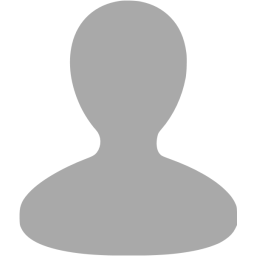
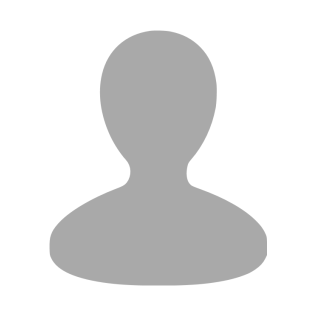
commit pre pull kenjonespizza

diff --git a/site/src/components/Testimonial/SideBySideTestimonial.svelte b/site/src/components/Testimonial/SideBySideTestimonial.svelte
@@ -1,6 +1,8 @@
 <script>
   import Carousel from '../Carousel.svelte'
   import BlockContent from '../BlockContent.svelte'
+  import TagRenderer from '../TagRenderer.svelte'
+  import { urlFor } from '../../utils/helpers'
 
   export let data
 
@@ -16,7 +18,7 @@
     primaryTextClass = 'text-indigo-600'
   } else if (data.backgroundColor === 'primary') {
     bgColorClass = 'bg-indigo-600'
-    textClass = 'text-textOnPrimary'
+    textClass = 'text-textOnPrimary border-textOnPrimary'
     primaryTextClass = 'text-textOnPrimary'
   } else {
     bgColorClass = 'bg-white'
@@ -31,36 +33,38 @@
   
 </script>
 
-<section class={`${wrapperClass}`}>
+<section class={`${wrapperClass || ''}`}>
   <div class={bgColorClass}>
     <div class="max-w-screen-xl mx-auto slides-wrap">
-      <Carousel backgroundColor={data.backgroundColor} {carouselOptions} >
+      <svelte:component this={data.testimonials.length > 2 ? Carousel : TagRenderer} tag="div" classes="md:grid md:grid-cols-2 md:px-6 lg:px-8" backgroundColor={data.backgroundColor} {carouselOptions}>
 
-        {#each data.testimonialArray as testimonial, i}
+        {#each data.testimonials as testimonial, i}
           <blockquote class="flex flex-col justify-center h-full py-12 px-6 md:py-16">
               <div class={`${textClass} relative text-lg leading-7 font-medium md:flex-grow`}>
                 <svg class={`${primaryTextClass} absolute top-0 left-0 transform -translate-x-1 -translate-y-2 h-8 w-8 text-indigo-600`} fill="currentColor" viewBox="0 0 32 32">
                   <path d="M9.352 4C4.456 7.456 1 13.12 1 19.36c0 5.088 3.072 8.064 6.624 8.064 3.36 0 5.856-2.688 5.856-5.856 0-3.168-2.208-5.472-5.088-5.472-.576 0-1.344.096-1.536.192.48-3.264 3.552-7.104 6.624-9.024L9.352 4zm16.512 0c-4.8 3.456-8.256 9.12-8.256 15.36 0 5.088 3.072 8.064 6.624 8.064 3.264 0 5.856-2.688 5.856-5.856 0-3.168-2.304-5.472-5.184-5.472-.576 0-1.248.096-1.44.192.48-3.264 3.456-7.104 6.528-9.024L25.864 4z" />
                 </svg>
 
-                <BlockContent content={testimonial.quote} classes={`relative pl-10 prose`} />
+                <BlockContent content={testimonial.quote} classes={`${textClass} relative pl-10 prose`} />
 
               </div>
               <footer class="mt-8">
                 <div class="flex">
-                  <div class="flex-shrink-0 inline-flex rounded-full border-2 border-white">
-                    <img class="h-12 w-12 rounded-full" src="https://images.unsplash.com/photo-1494790108377-be9c29b29330?ixlib=rb-1.2.1&ixid=eyJhcHBfaWQiOjEyMDd9&auto=format&fit=facearea&facepad=2&w=256&h=256&q=80" alt="">
-                  </div>
-                  <div class="ml-4">
-                    <div class={`${textClass} text-base leading-6 font-medium`}>Judith Black</div>
-                    <div class={`${primaryTextClass} text-base leading-6 font-medium`}>CEO, Tuple</div>
+
+                    <img class="rounded-full border-2 border-textOnPrimary h-10 w-10 object-cover object-center" src={testimonial.authorImage ? urlFor(testimonial.authorImage).quality(80).width(1400) : '/images/userImageNotFound.png'} alt={testimonial.authorName}>
+
+                  <div class="ml-4 flex flex-col justify-center">
+                    <div class={`${textClass} text-base leading-6 font-medium`}>{testimonial.authorName}</div>
+                    {#if testimonial.authorRol || testimonial.authorCompany}
+                    <div class={`${primaryTextClass} text-base leading-6 font-medium`}>{testimonial.authorRol}{testimonial.authorRol && testimonial.authorCompany ? ', ' : ' '}{testimonial.authorCompany}</div>
+                    {/if}
                   </div>
                 </div>
               </footer>
           </blockquote>
         {/each}
         
-      </Carousel>
+        </svelte:component>
     </div>
   </div>
 </section>

diff --git a/site/src/components/Testimonial/WithLargeAvatarTestimonial.svelte b/site/src/components/Testimonial/WithLargeAvatarTestimonial.svelte
@@ -1,0 +1,83 @@
+<script>
+  import Carousel from '../Carousel.svelte'
+  import BlockContent from '../BlockContent.svelte'
+  import TagRenderer from '../TagRenderer.svelte'
+  import { urlFor } from '../../utils/helpers'
+
+  export let data
+
+  let wrapperClass
+  let bgColorClass = 'bg-white'
+  let textClass = 'text-gray-900'
+  let primaryTextClass = 'text-indigo-600'
+
+  if (data.backgroundColor === 'inverted') {
+    wrapperClass = 'inverted'
+  } else if (data.backgroundColor === 'primary') {
+    bgColorClass = 'bg-indigo-600'
+    textClass = 'text-textOnPrimary'
+    primaryTextClass = 'text-textOnPrimary'
+  }
+  
+</script>
+
+<section class={`${wrapperClass || ''} ${bgColorClass} overflow-hidden`}>
+  <div class="relative max-w-screen-xl mx-auto pt-20 pb-12 px-4 sm:px-6 lg:px-8 lg:py-20">
+    <svg class="absolute top-full left-0 transform translate-x-80 -translate-y-24 lg:hidden" width="784" height="404" fill="none" viewBox="0 0 784 404">
+      <defs>
+        <pattern id="e56e3f81-d9c1-4b83-a3ba-0d0ac8c32f32" x="0" y="0" width="20" height="20" patternUnits="userSpaceOnUse">
+          <rect x="0" y="0" width="4" height="4" class="text-gray-200" fill="currentColor" />
+        </pattern>
+      </defs>
+      <rect width="784" height="404" fill="url(#e56e3f81-d9c1-4b83-a3ba-0d0ac8c32f32)" />
+    </svg>
+
+    <svg class="hidden lg:block absolute right-full top-1/2 transform translate-x-1/2 -translate-y-1/2" width="404" height="784" fill="none" viewBox="0 0 404 784">
+      <defs>
+        <pattern id="56409614-3d62-4985-9a10-7ca758a8f4f0" x="0" y="0" width="20" height="20" patternUnits="userSpaceOnUse">
+          <rect x="0" y="0" width="4" height="4" class="text-gray-200" fill="currentColor" />
+        </pattern>
+      </defs>
+      <rect width="404" height="784" fill="url(#56409614-3d62-4985-9a10-7ca758a8f4f0)" />
+    </svg>
+
+    
+      
+        <svelte:component this={data.testimonials.length > 1 ? Carousel : TagRenderer} tag="div" backgroundColor={data.backgroundColor}>
+
+          {#each data.testimonials as testimonial, i}
+
+          <div class="relative lg:flex lg:items-center">
+            <div class="hidden lg:block lg:flex-shrink-0">
+              <img class="bg-white h-64 w-64 rounded-full xl:h-80 xl:w-80 object-cover object-center" src={testimonial.authorImage ? urlFor(testimonial.authorImage).quality(80).width(1400) : '/images/userImageNotFound.png'} alt={testimonial.authorName}>
+            </div>
+      
+            <div class="relative lg:ml-10">
+  
+            <blockquote class="flex flex-col justify-center h-full px-6 md:px-0">
+
+              <BlockContent content={testimonial.quote} classes={`${textClass} text-2xl leading-9 font-medium text-gray-900`} />
+
+              <footer class="mt-8">
+                <div class="flex">
+                  <div class="flex-shrink-0 lg:hidden">
+                    <img class="h-12 w-12 rounded-full object-cover object-center" src={testimonial.authorImage ? urlFor(testimonial.authorImage).quality(80).width(1400) : '/images/userImageNotFound.png'} alt={testimonial.authorName}>
+                  </div>
+                  <div class="ml-4 lg:ml-0">
+                    <div class={`${textClass} text-base leading-6 font-medium`}>{testimonial.authorName}</div>
+                    {#if testimonial.authorRol || testimonial.authorCompany}
+                      <div class={`${primaryTextClass} text-base leading-6 font-medium opacity-75`}>{testimonial.authorRol}{testimonial.authorRol && testimonial.authorCompany ? ', ' : ' '}{testimonial.authorCompany}</div>
+                    {/if}
+                  </div>
+                </div>
+              </footer>
+            </blockquote>
+
+          </div>
+        </div>
+
+          {/each}
+          
+      </svelte:component>
+  </div>
+</section>

diff --git a/site/src/components/Testimonial/SimpleCenteredTestimonial.svelte b/site/src/components/Testimonial/SimpleCenteredTestimonial.svelte
@@ -1,6 +1,7 @@
 <script>
   import Carousel from '../Carousel.svelte'
   import BlockContent from '../BlockContent.svelte'
+  import TagRenderer from '../TagRenderer.svelte'
   import { urlFor } from '../../utils/helpers'
 
   export let data
@@ -27,24 +28,22 @@
   
 </script>
 
-<section class={`${wrapperClass} py-12 ${bgColorClass} overflow-hidden md:py-20 lg:py-24`}>
+<section class={`${wrapperClass || ''} py-12 ${bgColorClass} overflow-hidden md:py-20 lg:py-24`}>
   <div class={`relative max-w-screen-xl mx-auto px-4 sm:px-6 lg:px-8`}>
     <div class="relative">
       
-      <Carousel backgroundColor={data.backgroundColor}>
+      <svelte:component this={data.testimonials.length > 1 ? Carousel : TagRenderer} tag="div" backgroundColor={data.backgroundColor}>
 
-        {#each data.testimonialArray as testimonial, i}
+        {#each data.testimonials as testimonial, i}
  
           <blockquote class="flex flex-col justify-center h-full px-6 md:px-0">
 
-            <BlockContent content={testimonial.quote} classes={`max-w-3xl mx-auto text-center text-2xl leading-9 font-medium text-gray-900`} />
+            <BlockContent content={testimonial.quote} classes={`${textClass} max-w-3xl mx-auto text-center text-2xl leading-9 font-medium text-gray-900`} />
 
             <footer class="mt-8">
               <div class="md:flex md:items-center md:justify-center">
                 <div class="md:flex-shrink-0">
-                  {#if testimonial.authorImage && testimonial.authorImage.image}
-                    <img class="mx-auto h-10 w-10 rounded-full object-cover object-center" src={urlFor(testimonial.authorImage.image).quality(80).width(1400)} alt={testimonial.authorName}>
-                  {/if}
+                  <img class="mx-auto h-10 w-10 rounded-full object-cover object-center" src={testimonial.authorImage ? urlFor(testimonial.authorImage).quality(80).width(1400) : '/images/userImageNotFound.png'} alt={testimonial.authorName}>
                 </div>
                 <div class="mt-3 text-center md:mt-0 md:ml-4 md:flex md:items-center">
                   <div class={`${textClass} text-base leading-6 font-medium`}>{testimonial.authorName}</div>
@@ -52,8 +51,9 @@
                   <svg class={`${primaryTextClass} hidden md:block mx-1 h-5 w-5`} fill="currentColor" viewBox="0 0 20 20">
                     <path d="M11 0h3L9 20H6l5-20z" />
                   </svg>
-    
-                  <div class={`${textClass} text-base leading-6 font-medium opacity-75`}>{testimonial.authorRol}, {testimonial.authorCompany}</div>
+                  {#if testimonial.authorRol || testimonial.authorCompany}
+                    <div class={`${textClass} text-base leading-6 font-medium opacity-75`}>{testimonial.authorRol}{testimonial.authorRol && testimonial.authorCompany ? ', ' : ' '}{testimonial.authorCompany}</div>
+                  {/if}
                 </div>
               </div>
             </footer>
@@ -61,7 +61,7 @@
 
         {/each}
         
-      </Carousel>
+      </svelte:component>
     </div>
   </div>
 </section>

diff --git a/sanity/schemas/pageSections/testimonial/with_large_avatar_testimonial.js b/sanity/schemas/pageSections/testimonial/with_large_avatar_testimonial.js
@@ -1,25 +1,60 @@
+const sectionName = `Testimonial(s): With Large Avatar`
+
 export default {
   name: 'with_large_avatar_testimonial',
   type: 'object',
-  title: 'With large avatar - Testimonial',
+  title: sectionName,
+  fieldsets: [],
   fields: [
     {
-      name: 'heading',
-      title: 'Heading',
+      name: 'testimonials',
+      title: 'Testimonials',
+      type: 'array',
+      of: [
+        {type: 'testimonial'}
+      ],
+      validation: Rule => Rule.required().min(1).error('At least 1 item is required.'),
+    },
+    {
+      name: 'backgroundColor',
+      title: 'Background Color?',
       type: 'string',
+      description: 'Default: Normal',
+      options: {
+        list: [
+          {value: 'normal', title: "Normal"},
+          {value: 'inverted', title: "Inverted"},
+          {value: 'primary', title: "Primary Color"},
+        ],
+        layout: 'radio',
+        direction: 'horizontal',
+      }
     },
   ],
   preview: {
     select: {
-      title: 'heading',
+      testimonial: 'testimonials',
       disabled: 'disabled',
     },
-    prepare({ title, disabled }) {
+    prepare({ disabled, testimonial }) {
+      let title
+
+      if (disabled) {
+        title = '⚠ DISABLED';
+      } else if (!testimonial || testimonial.length === 0) {
+        title = `No Testimonials`
+      } else if (testimonial.length === 1) {
+        title = `1 Testimonial`
+      } else {
+        title = `${testimonial.length} Testimonials`
+      }
       return {
-        title: `With large avatar - Testimonial: ${
-          disabled ? 'DISABLED' : title
-        }`,
+        // The shorter... but more complicated way to do this...
+        // title: `${disabled ? '⚠ DISABLED' : testimonial.length > 0 ? `${testimonial.length > 0 && testimonial.length} Testimonial${testimonial.length > 1 ? 's' : ''}` : ' No Testimonials'}`,
+        title,
+        subtitle: sectionName,
       };
     },
   },
 };
+

diff --git a/sanity/schemas/pageSections/testimonial/side_by_side_testimonial.js b/sanity/schemas/pageSections/testimonial/side_by_side_testimonial.js
@@ -7,7 +7,7 @@ export default {
   fieldsets: [],
   fields: [
     {
-      name: 'testimonialArray',
+      name: 'testimonials',
       title: 'Testimonials',
       type: 'array',
       of: [
@@ -33,7 +33,7 @@ export default {
   ],
   preview: {
     select: {
-      testimonial: 'testimonialArray',
+      testimonial: 'testimonials',
       disabled: 'disabled',
     },
     prepare({ disabled, testimonial }) {
@@ -41,7 +41,7 @@ export default {
 
       if (disabled) {
         title = '⚠ DISABLED';
-      } else if (testimonial.length === 0) {
+      } else if (!testimonial || testimonial.length === 0) {
         title = `No Testimonial`
       } else if (testimonial.length === 1) {
         title = `1 Testimonial`

diff --git a/site/src/components/BlockResolver.js b/site/src/components/BlockResolver.js
@@ -13,6 +13,7 @@ import SplitWithImageCta from './Cta/SplitWithImageCta.svelte'
 // Testimonials
 import SideBySideTestimonial from './Testimonial/SideBySideTestimonial.svelte'
 import SimpleCenteredTestimonial from './Testimonial/SimpleCenteredTestimonial.svelte'
+import WithLargeAvatarTestimonial from './Testimonial/WithLargeAvatarTestimonial.svelte'
 
 import BlockNotFound from './BlockNotFound.svelte'
 
@@ -32,6 +33,7 @@ const Components = {
   // Testimonials
   side_by_side_testimonial: SideBySideTestimonial,
   simple_centered_testimonial: SimpleCenteredTestimonial,
+  with_large_avatar_testimonial: WithLargeAvatarTestimonial,
 }
 
 // TODO: Automate ^... Maybe using globbing?

diff --git a/sanity/schemas/pageSections/testimonial/testimonial.js b/sanity/schemas/pageSections/testimonial/testimonial.js
@@ -7,16 +7,18 @@ export default {
       name: 'quote',
       title: 'Quote',
       type: 'minimalPortableText',
+      validation: Rule => Rule.required()
     },
     {
       name: 'authorName',
       title: 'Author Name',
       type: 'string',
+      validation: Rule => Rule.required()
     },
     {
       name: 'authorImage',
       title: 'Author Image',
-      type: 'basicImage',
+      type: 'imageNoAlt',
     },
     {
       name: 'authorRol',

diff --git a/sanity/schemas/pageSections/testimonial/simple_centered_testimonial.js b/sanity/schemas/pageSections/testimonial/simple_centered_testimonial.js
@@ -7,7 +7,7 @@ export default {
   fieldsets: [],
   fields: [
     {
-      name: 'testimonialArray',
+      name: 'testimonials',
       title: 'Testimonials',
       type: 'array',
       of: [
@@ -33,7 +33,7 @@ export default {
   ],
   preview: {
     select: {
-      testimonial: 'testimonialArray',
+      testimonial: 'testimonials',
       disabled: 'disabled',
     },
     prepare({ disabled, testimonial }) {

diff --git a/site/src/components/TagRenderer.svelte b/site/src/components/TagRenderer.svelte
@@ -27,6 +27,10 @@
   <h6 class={classes}>
     <slot />
   </h6>
+{:else if tag === 'div'}
+  <div class={classes}>
+    <slot />
+  </div>
 {:else}
   <span class={classes}>
     <slot />
